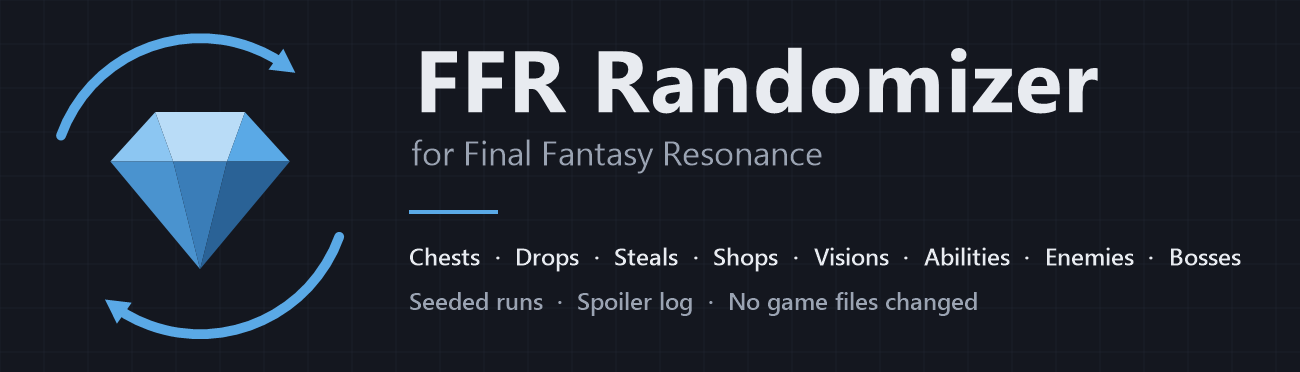
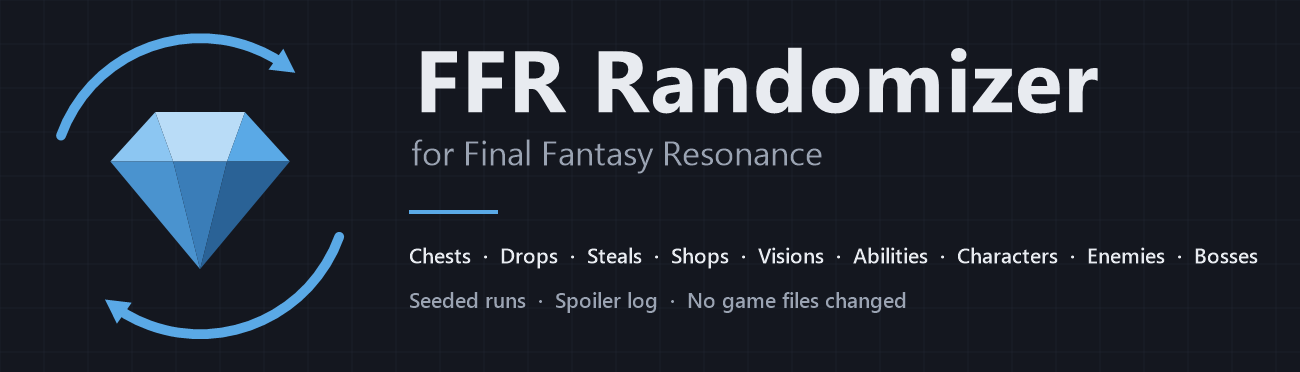
0.5.0: character randomizer and option tabs

Changed region(s): [[0.3077, 0.6505, 0.9846, 0.7392], [0.3077, 0.7688, 0.7692, 0.8575]]

diff --git a/README.md b/README.md
@@ -2,7 +2,7 @@
 
 # FFR Randomizer
 
-A seeded randomizer for **Final Fantasy Resonance** on PC. It shuffles chests, enemy drops, steals, shop stock, all 26 Visions and their abilities, the enemies in random encounters and the bosses. Share a seed and a friend gets the same run.
+A seeded randomizer for **Final Fantasy Resonance** on PC. It shuffles chests, enemy drops, steals, shop stock, all 26 Visions and their abilities, the characters' moves, finishers and stats, the enemies in random encounters and the bosses. Share a seed and a friend gets the same run.
 
 It's a UE4SS Lua mod that changes the game's tables in memory while the game runs. No game files are changed, and removing the mod undoes it.
 
@@ -13,7 +13,8 @@ It's a UE4SS Lua mod that changes the game's tables in memory while the game run
 - **Chest quantity:** keep each chest's own count, or roll 1 to 9 or 1 to 50. Weapons, armor and accessories always stay at 1.
 - **Shops:** every shop keeps its categories and sells random items at the game's own prices. Quest items never show up in shops.
 - **Visions:** all 26 Visions swap among their rewards, including Sanctum, subquest and story Visions.
-- **Vision abilities (off by default):** each Vision's abilities and passives swap with other Visions', keeping its counts, with no duplicates and no stacked copies of one stat bonus. Options: mix Physical and Magic Visions, keep Leah, Ayaka and Y'shtola as healers, and shuffle the 26 finishers.
+- **Vision abilities (off by default):** each Vision's abilities and passives swap with other Visions', keeping its counts, with no duplicates and no stacked copies of one stat bonus. Options: mix Physical and Magic Visions, keep Fina, Leah, Ayaka and Y'shtola as healers, and shuffle the 26 finishers.
+- **Characters (off by default):** level-up moves and finishers swap among characters of the same attack type (or across types), keeping counts and levels; each character's five main stats can trade growth curves, keeping totals.
 - **Enemies (experimental, off by default):** random encounter enemies swap one-for-one with enemies of the same size, taking the level, HP, stats, EXP, Gil, drops and steals of the one they replace.
 - **Bosses (experimental, off by default):** boss fights swap bosses. The new boss keeps its own abilities and takes the replaced boss's stats and rewards. Lose-on-purpose and multi-phase fights stay put.
 - **Spoiler log:** a text file listing where everything went.
@@ -27,12 +28,12 @@ It's a UE4SS Lua mod that changes the game's tables in memory while the game run
 Keep the same Randomizer File for the whole playthrough. Uninstall from Windows Settings > Apps > Installed apps.
 
 ### Manual install
-Copy `mod/FFRRandomizer` into `FINAL FANTASY RESONANCE\FFRS\Binaries\Win64\ue4ss\Mods\`. Without the app, the mod picks a seed on first launch and writes it to `Randomizer.txt` in that folder; edit that file to change the seed or options (`items`, `shops`, `visions`, `enemies`, `bosses`, `abilities`, `mix_physical_magic`, `finishers`, `supports`: `on` or `off`; `chest_quantity`: `default`, `9` or `50`).
+Copy `mod/FFRRandomizer` into `FINAL FANTASY RESONANCE\FFRS\Binaries\Win64\ue4ss\Mods\`. Without the app, the mod picks a seed on first launch and writes it to `Randomizer.txt` in that folder; edit that file to change the seed or options (`items`, `shops`, `visions`, `enemies`, `bosses`, `abilities`, `mix_physical_magic`, `finishers`, `supports`, `character_moves`, `character_finishers`, `mix_character_moves`, `character_stats`: `on` or `off`; `chest_quantity`: `default`, `9` or `50`).
 
 ## Repository
 | Folder | What's in it |
 |---|---|
-| `mod/FFRRandomizer` | The UE4SS mod. `Scripts/main.lua` builds and applies the seeded plan; `ItemNames.lua`, `EncounterGroups.lua` and `VisionAbilities.lua` are generated lookups. |
+| `mod/FFRRandomizer` | The UE4SS mod. `Scripts/main.lua` builds and applies the seeded plan; `ItemNames.lua`, `EncounterGroups.lua`, `VisionAbilities.lua` and `CharacterMoves.lua` are generated lookups. |
 | `gui` | The app (WinForms, C# 5). `build.cmd` compiles it with the compiler that ships with .NET Framework 4.8, so nothing needs installing. |
 | `installer` | `FFRRandomizer-Setup.exe`, also built with the .NET Framework compiler. |
 | `tools` | `make_release.ps1` builds a release zip; `make_art.ps1` draws the icon and banners; the Python scripts regenerate the Lua lookups from a data table export (not included). |
@@ -40,7 +41,7 @@ Copy `mod/FFRRandomizer` into `FINAL FANTASY RESONANCE\FFRS\Binaries\Win64\ue4ss
 
 Build a release:
 ```
-powershell -ExecutionPolicy Bypass -File tools/make_release.ps1 -Version 0.4.1
+powershell -ExecutionPolicy Bypass -File tools/make_release.ps1 -Version 0.5.0
 ```
 
 ## License
